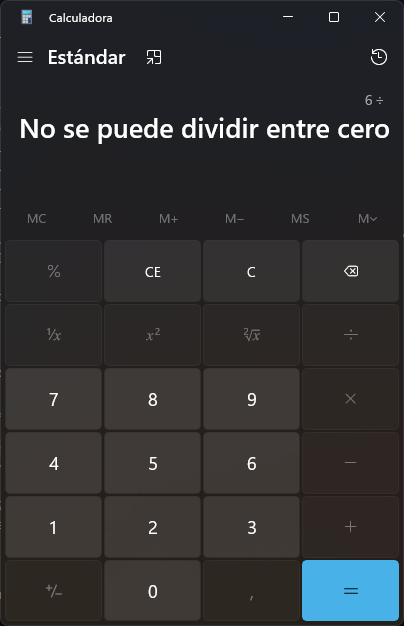
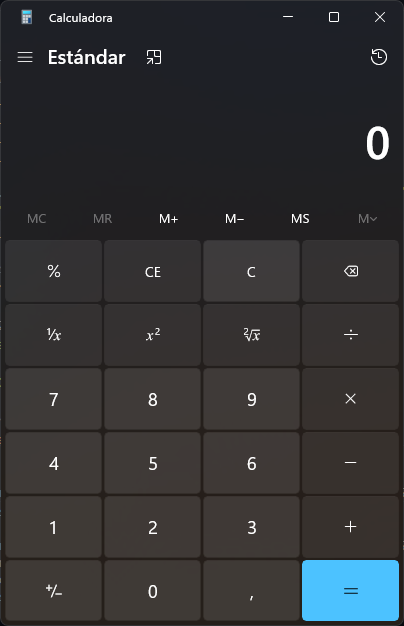
Add files via upload

diff --git a/script.py b/script.py
@@ -63,8 +63,6 @@ assert (
     "dividir entre cero" in error_text
 ), f"Error inesperado: {error}"
 driver.find_element_by_accessibility_id("clearButton").click()
-
-    
 time.sleep(2)
 #---------------------------------------------------------------------
 ### 8. Provocar nuevo error: Realizar 6 / 0 =
@@ -75,7 +73,8 @@ driver.find_element_by_accessibility_id("equalButton").click()
 
 resultado2 = driver.find_element_by_accessibility_id("CalculatorResults").text
 print("Resultado 2:", resultado2)
-
+driver.find_element_by_accessibility_id("clearButton").click()
+time.sleep(2)
 #guardo captura de pantalla de la prueba realizada
 driver.save_screenshot("evidencia.png")
 
